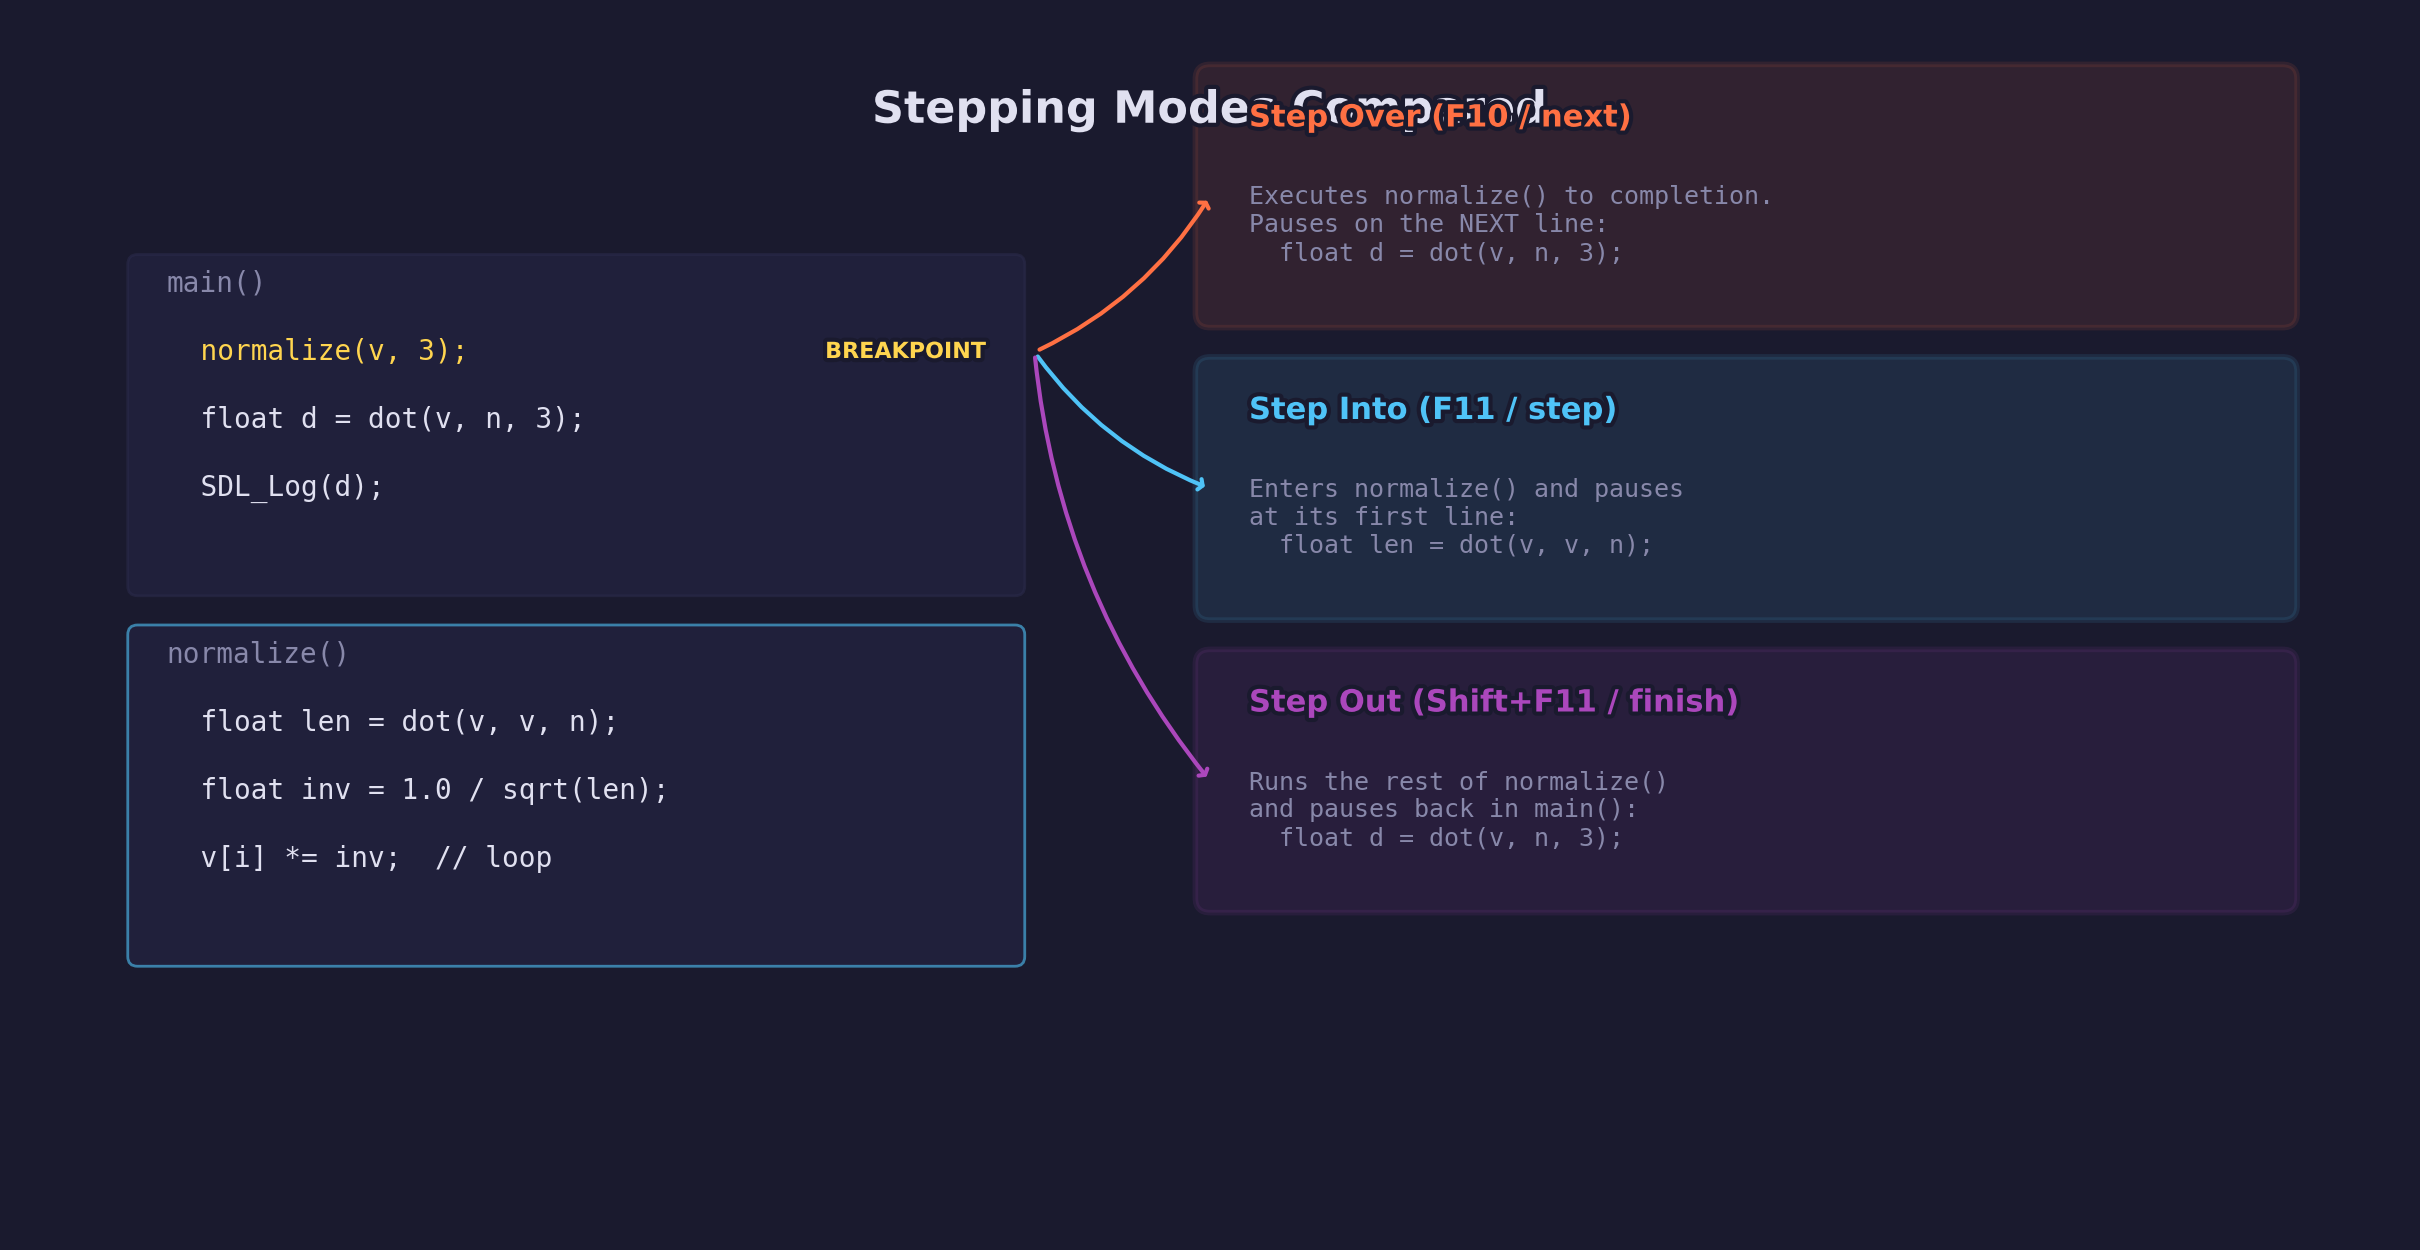
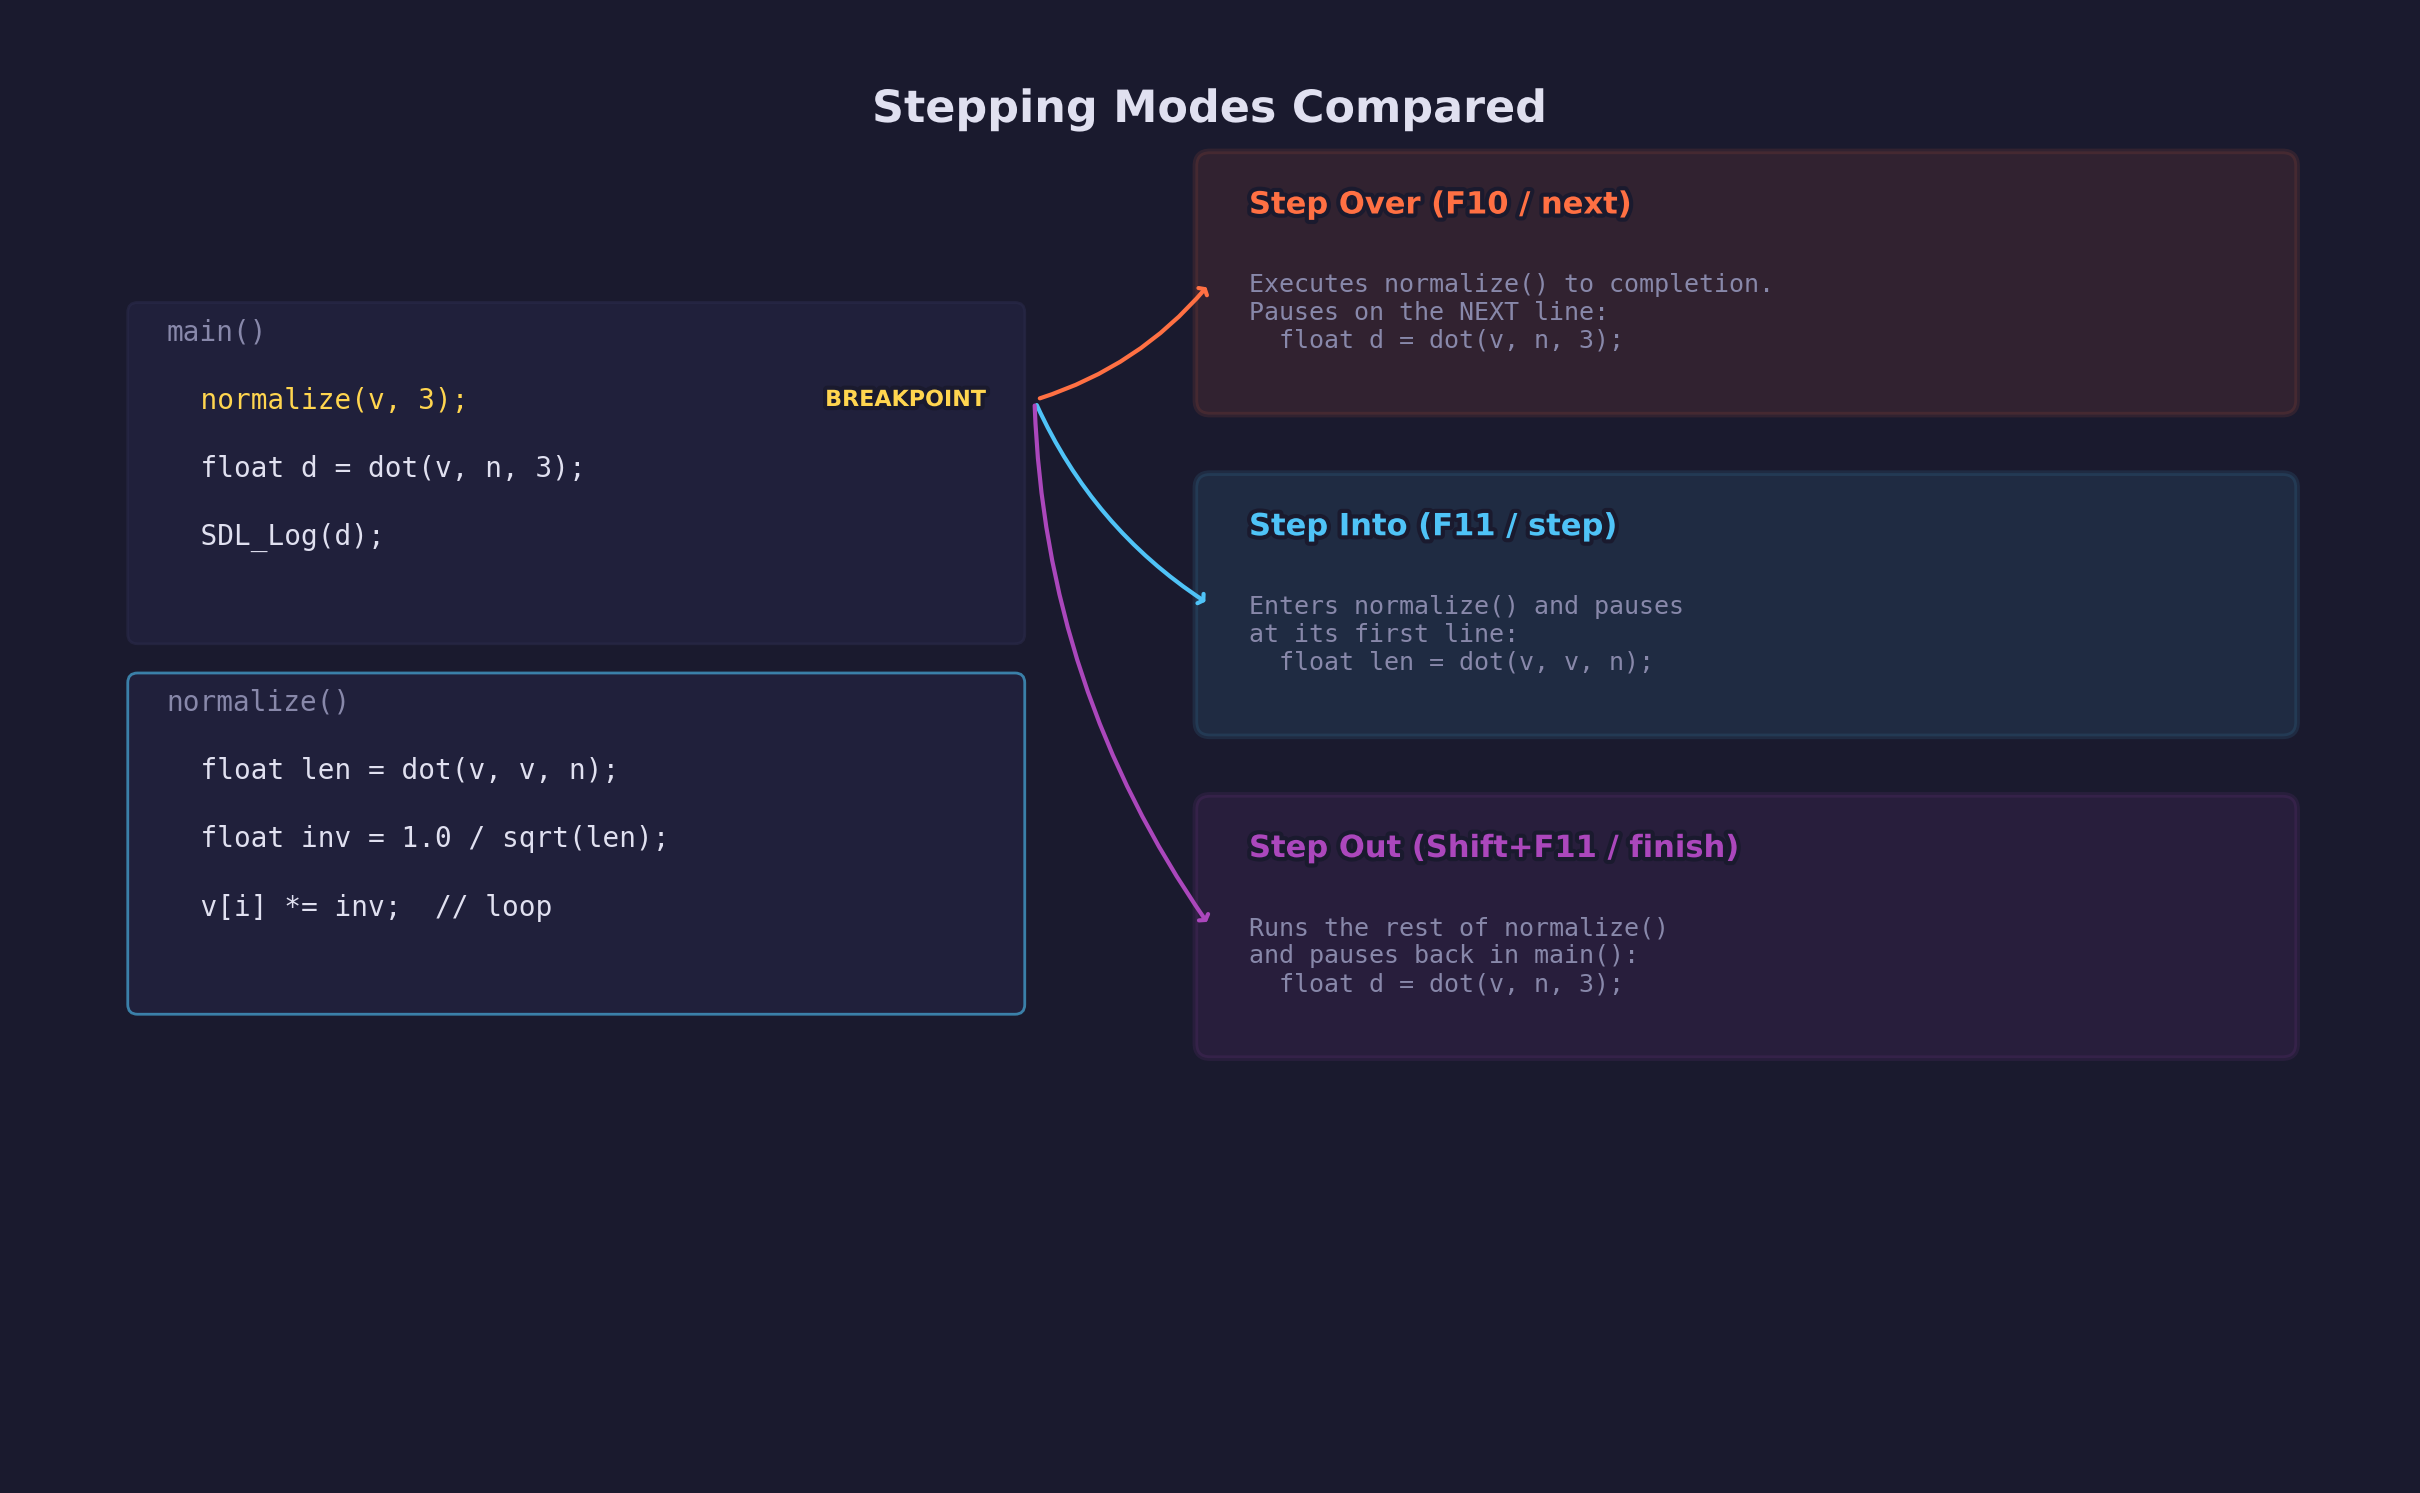
Fix stepping_modes diagram title overlap
Increase vertical canvas space and shift mode boxes down so the
"Step Over (F10 / next)" label no longer collides with the diagram title.

https://claude.ai/code/session_0178oYXjS7VbccwHcazQiqYG

diff --git a/scripts/forge_diagrams/engine_diagrams.py b/scripts/forge_diagrams/engine_diagrams.py
@@ -1462,10 +1462,10 @@ def diagram_debugger_workflow():
 # ---------------------------------------------------------------------------
 def diagram_stepping_modes():
     """Visualize step over, step into, and step out with a call hierarchy."""
-    fig, ax = plt.subplots(figsize=(12, 8), facecolor=STYLE["bg"])
+    fig, ax = plt.subplots(figsize=(12, 9), facecolor=STYLE["bg"])
     ax.set_facecolor(STYLE["bg"])
     ax.set_xlim(-1, 23)
-    ax.set_ylim(-1, 11)
+    ax.set_ylim(-2, 12.5)
     ax.set_aspect("equal")
     ax.axis("off")
 
@@ -1473,7 +1473,7 @@ def diagram_stepping_modes():
 
     ax.text(
         11,
-        10.5,
+        12.0,
         "Stepping Modes Compared",
         color=STYLE["text"],
         fontsize=16,
@@ -1503,7 +1503,7 @@ def diagram_stepping_modes():
     ]
 
     # Code block background
-    code_y_top = 8.5
+    code_y_top = 9.5
     code_bg = FancyBboxPatch(
         (code_x, code_y_top - len(code_lines) * line_h - 0.3),
         code_w,
@@ -1577,7 +1577,7 @@ def diagram_stepping_modes():
             "Executes normalize() to completion.\n"
             "Pauses on the NEXT line:\n"
             "  float d = dot(v, n, 3);",
-            8.2,
+            8.8,
         ),
         (
             "Step Into (F11 / step)",
@@ -1585,7 +1585,7 @@ def diagram_stepping_modes():
             "Enters normalize() and pauses\n"
             "at its first line:\n"
             "  float len = dot(v, v, n);",
-            5.2,
+            5.5,
         ),
         (
             "Step Out (Shift+F11 / finish)",
